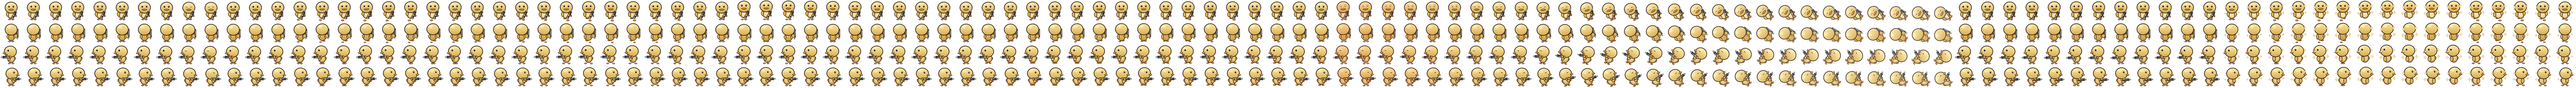
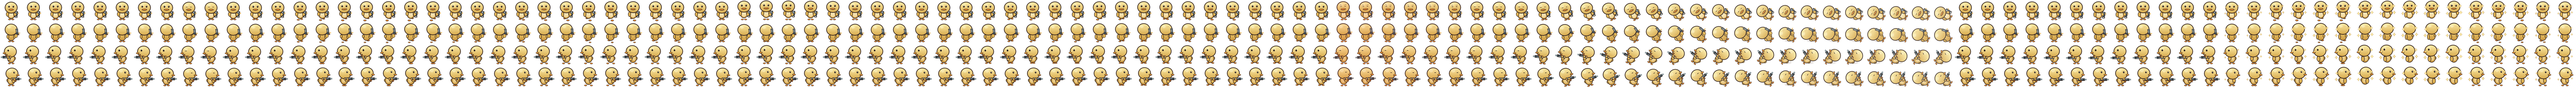
Release Duck Heist v0.7.42 Chibi V16 combat polish

Changed region(s): [[0.0, 0.0938, 0.875, 0.2188], [0.0, 0.3125, 0.8438, 0.4375]]

diff --git a/src/game/graphics/playerChibiAtlasV16.ts b/src/game/graphics/playerChibiAtlasV16.ts
@@ -170,12 +170,12 @@ function visualPose(state: State, tick: number, index: number, dir: DuckDir, tur
   } else if (state === 'shoot') {
     const attack = Math.min(1, tick / 4);
     const recover = tick <= 4 ? 1 : Math.max(0, 1 - (tick - 4) / 20);
-    const kick = .82 * (tick <= 4 ? 1 - Math.pow(1 - attack, 3) : Math.pow(recover, 1.6));
+    const kick = 1.05 * (tick <= 4 ? 1 - Math.pow(1 - attack, 3) : Math.pow(recover, 1.72));
     if (dir === 'left') dx = kick;
     else if (dir === 'right') dx = -kick;
-    else if (dir === 'up') dy = kick * .68;
-    else dy = -kick * .48;
-    scaleX = 1 + kick * .018; scaleY = 1 - kick * .016;
+    else if (dir === 'up') dy = kick * .72;
+    else dy = -kick * .54;
+    scaleX = 1 + kick * .020; scaleY = 1 - kick * .018;
   } else if (state === 'dash') {
     const t = Math.min(1, tick / 15);
     const drive = Math.sin(t * Math.PI);
@@ -256,16 +256,16 @@ function drawShadow(ctx: Ctx, feetX: number, feetY: number, state: State, alpha:
 }
 
 function muzzlePoint(dir: DuckDir, feetX: number, feetY: number): { x: number; y: number; a: number } {
-  if (dir === 'right') return { x: feetX + 20.0, y: feetY - 13.0, a: 0 };
-  if (dir === 'left') return { x: feetX - 20.0, y: feetY - 13.0, a: Math.PI };
-  if (dir === 'up') return { x: feetX + 11.5, y: feetY - 27.0, a: -Math.PI / 2 };
-  return { x: feetX + 10.8, y: feetY + .2, a: 1.08 };
+  if (dir === 'right') return { x: feetX + 17.6, y: feetY - 13.0, a: 0 };
+  if (dir === 'left') return { x: feetX - 17.6, y: feetY - 13.0, a: Math.PI };
+  if (dir === 'up') return { x: feetX + 11.7, y: feetY - 27.8, a: -Math.PI / 2 };
+  return { x: feetX + 8.7, y: feetY - .5, a: Math.PI / 2 };
 }
 
 function drawMuzzle(ctx: Ctx, dir: DuckDir, feetX: number, feetY: number, tick: number, alpha: number): void {
-  if (tick > 4) return;
+  if (tick > 6) return;
   const p = muzzlePoint(dir, feetX, feetY);
-  const fade = Math.max(.10, 1 - tick / 5);
+  const fade = Math.max(.08, 1 - tick / 7);
   ctx.save();
   ctx.translate(p.x, p.y);
   ctx.rotate(p.a);
@@ -273,10 +273,13 @@ function drawMuzzle(ctx: Ctx, dir: DuckDir, feetX: number, feetY: number, tick: 
   ctx.globalAlpha = alpha * fade;
   ctx.fillStyle = '#fff2ad';
   ctx.beginPath();
-  ctx.moveTo(0, 0); ctx.lineTo(6.8, -2.2); ctx.lineTo(4.4, 0); ctx.lineTo(7.6, 2.2); ctx.closePath(); ctx.fill();
-  ctx.globalAlpha = alpha * fade * .52;
+  ctx.moveTo(0, 0); ctx.lineTo(8.7, -2.7); ctx.lineTo(5.4, 0); ctx.lineTo(9.4, 2.7); ctx.closePath(); ctx.fill();
+  ctx.globalAlpha = alpha * fade * .58;
   ctx.fillStyle = '#f5a933';
-  ctx.beginPath(); ctx.ellipse(2.2, 0, 5.8, 3.4, 0, 0, Math.PI * 2); ctx.fill();
+  ctx.beginPath(); ctx.ellipse(2.7, 0, 6.9, 3.9, 0, 0, Math.PI * 2); ctx.fill();
+  ctx.globalAlpha = alpha * fade * .9;
+  ctx.fillStyle = '#fff9d8';
+  ctx.beginPath(); ctx.arc(.8, 0, 1.35, 0, Math.PI * 2); ctx.fill();
   ctx.restore();
 }
 

diff --git a/index.html b/index.html
@@ -3,7 +3,7 @@
   <head>
     <meta charset="UTF-8" />
     <meta name="viewport" content="width=device-width, initial-scale=1.0" />
-    <meta name="duck-heist-build" content="0.7.41-chibi-v16-weapon-perspective" />
+    <meta name="duck-heist-build" content="0.7.42-chibi-v16-combat-readability" />
     <title>DUCK HEIST · El Banco del Pan</title>
     <meta name="description" content="Patos, pan y un atraco imposible. Un roguelite pixel art con armas absurdas, objetos, secretos y seis pisos que robar." />
     <style>

diff --git a/scripts/generate-player-chibi-v16.py b/scripts/generate-player-chibi-v16.py
@@ -137,6 +137,51 @@ def paste_gun(im, direction, anchor, recoil=0.0, lowered=0.0, alpha=255):
     im.alpha_composite(g,pos)
 
 
+def front_gun_layer(anchor: tuple[float,float], recoil: float=0.0, lowered: float=0.0, alpha: int=255):
+    # Compact down-screen projection of the same hero blaster. Receiver, wood
+    # grip and muzzle remain distinct at 64px without reading as a flashlight.
+    local=Image.new('RGBA',(S(20),S(23)),(0,0,0,0)); d=ImageDraw.Draw(local)
+    d.rounded_rectangle(box(6.1,3.0,14.5,14.8), radius=S(1.35), fill=rgba(GUN_DARK,alpha), outline=rgba(INK,alpha), width=S(1.0))
+    d.rounded_rectangle(box(7.1,4.0,13.4,13.2), radius=S(.78), fill=rgba(GUN_MID,alpha))
+    d.rounded_rectangle(box(8.0,4.5,10.0,11.7), radius=S(.35), fill=rgba(GUN_HI,int(alpha*.92)))
+    d.rectangle(box(14.0,7.1,17.5,9.2), fill=rgba(BRASS,alpha))
+    d.rounded_rectangle(box(7.0,12.6,13.9,18.4), radius=S(.95), fill=rgba('#435159',alpha), outline=rgba(INK,alpha), width=S(.82))
+    d.ellipse(box(6.4,17.0,14.6,22.0), fill=rgba('#182127',alpha), outline=rgba(INK,alpha), width=S(.85))
+    d.ellipse(box(7.7,18.0,13.3,21.0), fill=rgba('#71848b',alpha))
+    d.ellipse(box(8.6,18.5,12.4,20.4), fill=rgba('#dbe5e1',int(alpha*.70)))
+    d.polygon([(S(6.8),S(9.0)),(S(2.9),S(11.0)),(S(4.0),S(17.3)),(S(7.6),S(14.8))], fill=rgba(WOOD,alpha))
+    d.line([(S(4.0),S(11.7)),(S(6.5),S(10.5))], fill=rgba(BRASS,alpha), width=S(.72))
+    local=local.rotate(-5.5,resample=Image.Resampling.BICUBIC,expand=True)
+    cx=S(anchor[0]); cy=S(anchor[1]+lowered-recoil*.58)
+    return local,(int(cx-local.width/2),int(cy-local.height/2))
+
+
+def paste_front_gun(im, anchor, recoil=0.0, lowered=0.0, alpha=255):
+    g,pos=front_gun_layer(anchor,recoil,lowered,alpha); im.alpha_composite(g,pos)
+
+
+def rear_gun_layer(anchor: tuple[float,float], recoil: float=0.0, lowered: float=0.0, alpha: int=255):
+    # Rear/up projection exposes a small muzzle, barrel, receiver and tucked
+    # stock. The uneven outline reads as a weapon rather than a vertical tube.
+    local=Image.new('RGBA',(S(21),S(26)),(0,0,0,0)); d=ImageDraw.Draw(local)
+    d.ellipse(box(6.4,.6,13.8,4.6), fill=rgba('#182127',alpha), outline=rgba(INK,alpha), width=S(.82))
+    d.ellipse(box(7.5,1.3,12.7,3.7), fill=rgba('#71848b',alpha))
+    d.rounded_rectangle(box(7.0,3.3,13.4,14.2), radius=S(1.05), fill=rgba(GUN_DARK,alpha), outline=rgba(INK,alpha), width=S(.92))
+    d.rounded_rectangle(box(7.9,4.0,12.5,12.8), radius=S(.62), fill=rgba(GUN_MID,alpha))
+    d.rounded_rectangle(box(8.5,4.4,10.0,11.4), radius=S(.28), fill=rgba(GUN_HI,int(alpha*.90)))
+    d.rounded_rectangle(box(5.4,12.5,14.6,18.9), radius=S(.9), fill=rgba('#3f4d55',alpha), outline=rgba(INK,alpha), width=S(.8))
+    d.rectangle(box(13.7,13.5,18.8,15.5), fill=rgba(BRASS,alpha))
+    d.polygon([(S(7.0),S(16.1)),(S(3.0),S(18.5)),(S(4.4),S(25.0)),(S(8.4),S(21.7))], fill=rgba(WOOD,alpha))
+    d.rounded_rectangle(box(10.5,17.4,15.8,20.0), radius=S(.55), fill=rgba('#6f452a',alpha))
+    local=local.rotate(5.0,resample=Image.Resampling.BICUBIC,expand=True)
+    cx=S(anchor[0]); cy=S(anchor[1]+lowered+recoil*.74)
+    return local,(int(cx-local.width/2),int(cy-local.height/2))
+
+
+def paste_rear_gun(im, anchor, recoil=0.0, lowered=0.0, alpha=255):
+    g,pos=rear_gun_layer(anchor,recoil,lowered,alpha); im.alpha_composite(g,pos)
+
+
 def pose(state: str, i: int, n: int):
     p = i / max(1,n)
     phase = p * 2*pi
@@ -274,12 +319,7 @@ def draw_duck(direction: str, state: str, i: int, n: int) -> Image.Image:
         translucent_ellipse(im,(lfx-2.8*lfs,lfy-1.0*lfs,lfx+1.7*lfs,lfy-.15*lfs),BEAK_HI,120)
         translucent_ellipse(im,(rfx-1.7*rfs,rfy-1.0*rfs,rfx+2.8*rfs,rfy-.15*rfs),BEAK_HI,120)
 
-    # Weapon behind the body only when aiming upward.
     recoil=q['recoil']*.55
-    if direction=='up' and state not in ('celebrate',):
-        # Offset to the shoulder so the rear weapon remains readable instead of
-        # disappearing completely behind the large chibi head.
-        paste_gun(im,direction,(49.5,34.0+bob),recoil,q['lowered'])
 
     # Tail/back wing hint.
     if side:
@@ -311,19 +351,26 @@ def draw_duck(direction: str, state: str, i: int, n: int) -> Image.Image:
     # Keep the base silhouette smooth: no hair tuft, hat or glasses.
     draw_face(im,direction,head_cx,head_cy,q['blink'],q['hurt'])
 
-    # Foreground weapon and gripping wing. It is integrated into every pose.
-    if direction!='up' and state!='celebrate':
-        if direction=='right': anchor=(45.2,38+bob*.25)
-        elif direction=='left': anchor=(18.8,38+bob*.25)
-        else: anchor=(40.5,43.0+bob*.18)
-        paste_gun(im,direction,anchor,recoil,q['lowered'])
-        gx=anchor[0]-(4 if direction=='right' else -4 if direction=='left' else 2)
-        gy=anchor[1]+(1 if direction=='down' else 0)
-        ellipse(im,(gx-3.6,gy-3.0,gx+3.6,gy+3.2),WING,INK,1.1)
-        translucent_ellipse(im,(gx-2.4,gy-2.2,gx+1.5,gy-1.0),'#f7db84',95)
-    elif direction=='up' and state!='celebrate':
-        # Wing closes over the shifted rear weapon grip.
-        ellipse(im,(41.0,35.0+bob*.2,50.8,46.0+bob*.2),WING,INK,1.1)
+    # Direction-specific weapon perspective. Side views retain the long hero
+    # blaster; front/back use compact screen-depth projections with visible grip.
+    if state!='celebrate':
+        if direction in ('left','right'):
+            anchor=(45.2,38+bob*.25) if direction=='right' else (18.8,38+bob*.25)
+            paste_gun(im,direction,anchor,recoil,q['lowered'])
+            gx=anchor[0]-(4 if direction=='right' else -4)
+            gy=anchor[1]
+            ellipse(im,(gx-3.6,gy-3.0,gx+3.6,gy+3.2),WING,INK,1.1)
+            translucent_ellipse(im,(gx-2.4,gy-2.2,gx+1.5,gy-1.0),'#f7db84',95)
+        elif direction=='down':
+            anchor=(46.4,41.2+bob*.18)
+            paste_front_gun(im,anchor,recoil,q['lowered'])
+            ellipse(im,(39.0,37.5+bob*.16,47.2,46.6+bob*.16),WING,INK,1.1)
+            translucent_ellipse(im,(40.1,38.6+bob*.16,44.3,40.0+bob*.16),'#f7db84',95)
+        else:
+            anchor=(49.8,31.5+bob)
+            paste_rear_gun(im,anchor,recoil,q['lowered'])
+            ellipse(im,(41.2,34.8+bob*.2,50.8,45.8+bob*.2),WING,INK,1.1)
+            translucent_ellipse(im,(42.5,35.8+bob*.2,46.8,37.2+bob*.2),'#f7db84',72)
 
     if state=='hurt':
         lay=Image.new('RGBA',im.size,(255,90,70,0)); lay.putalpha(im.getchannel('A').point(lambda a:int(a*.11*q['hurt'])))
